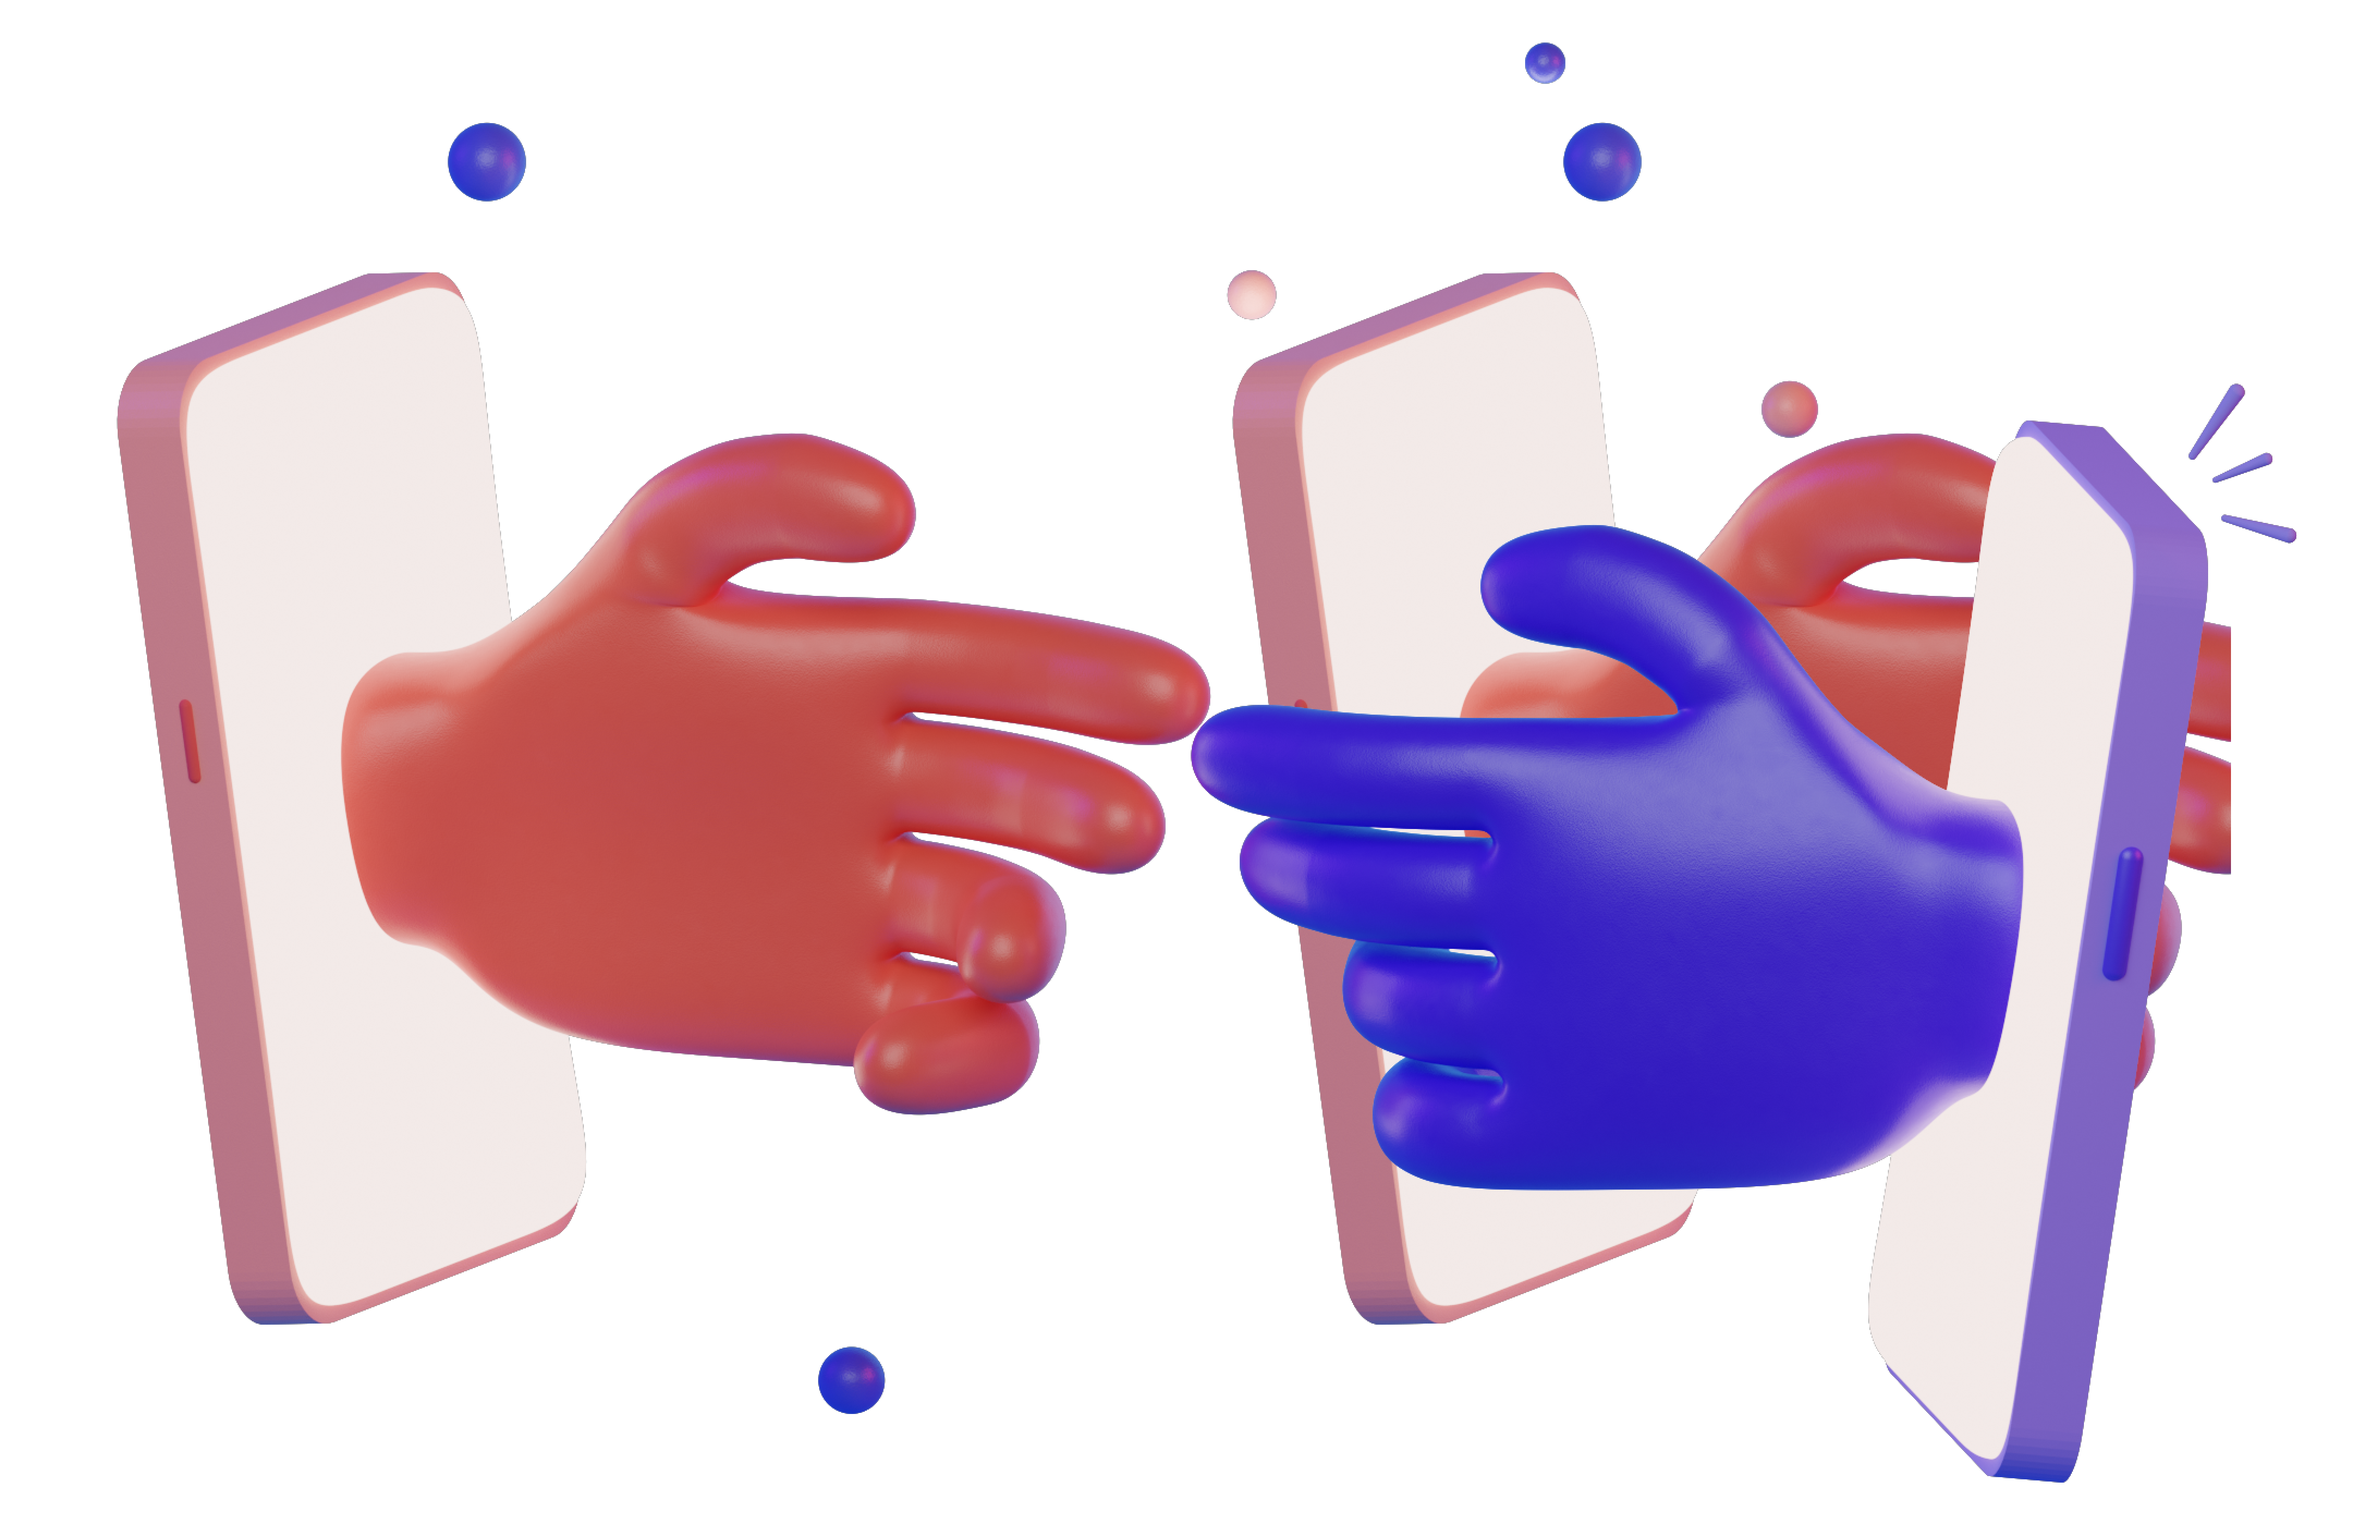
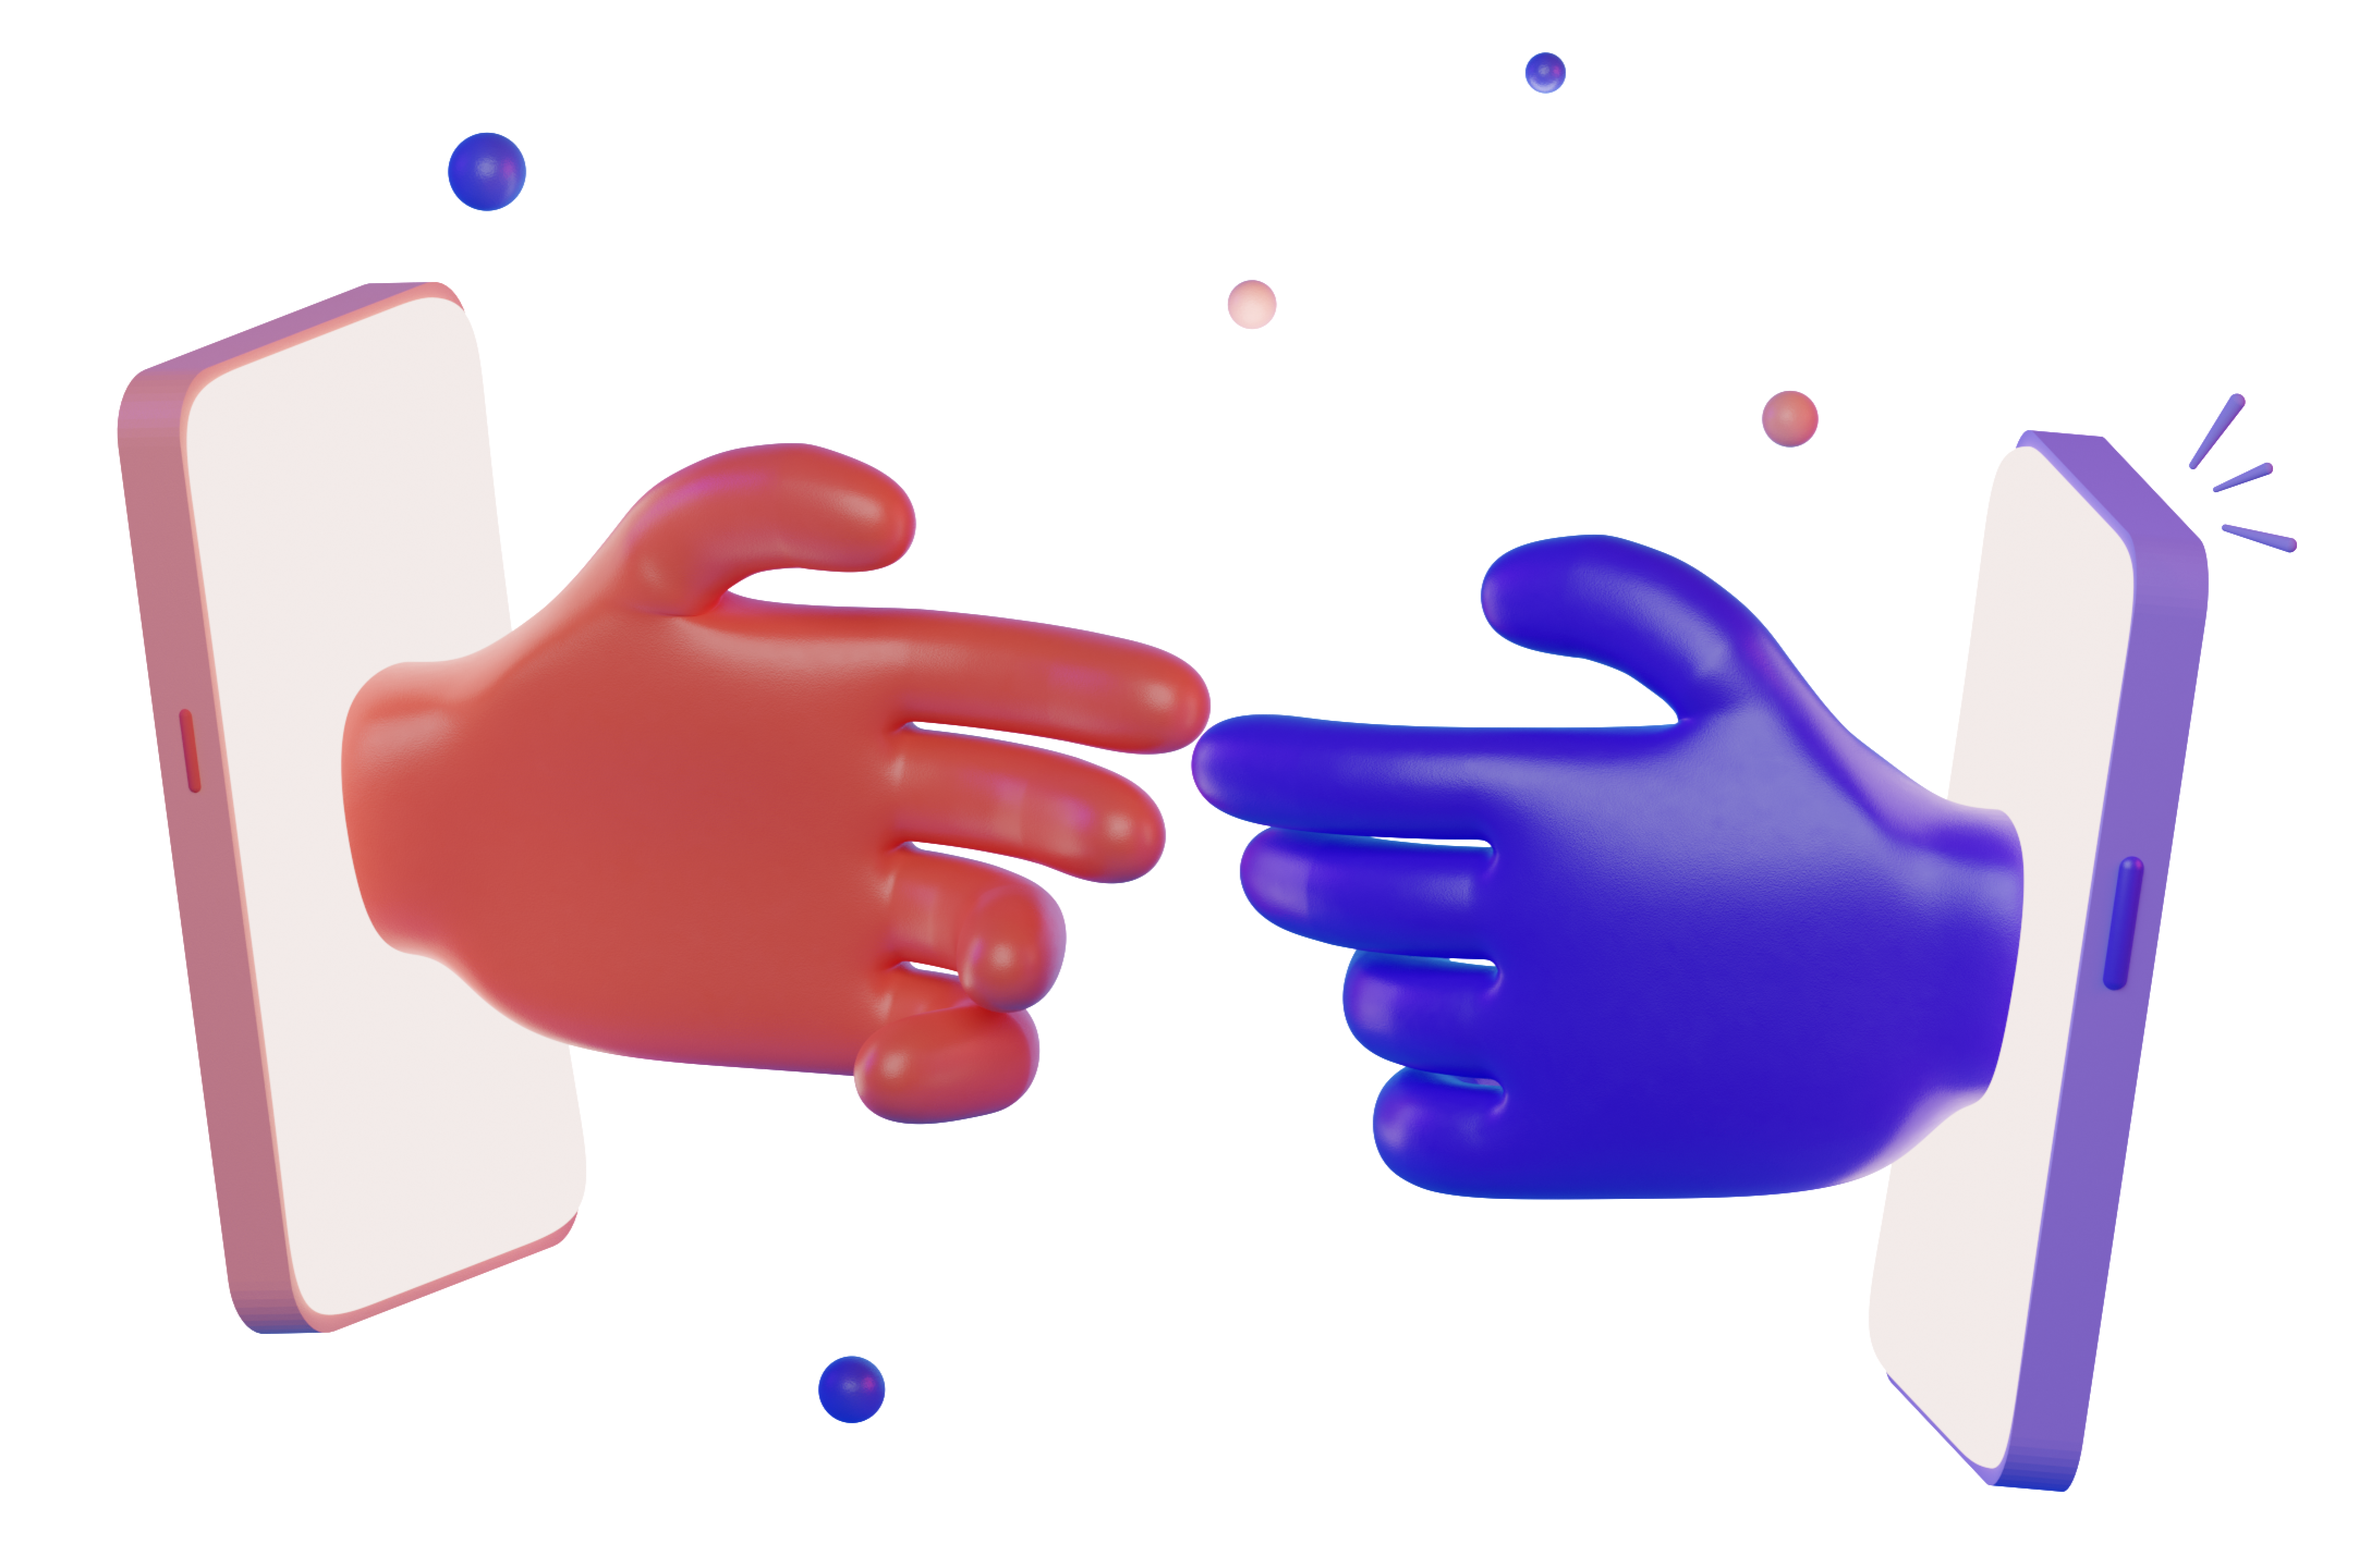
chore/crop img footer

diff --git a/e-learning/src/common/components/Footer/index.jsx b/e-learning/src/common/components/Footer/index.jsx
@@ -45,7 +45,7 @@ function Footer() {
                         </div>
                     </Col>
                     <Col xs={12} sm={6} md={3} className='text-center'>
-                        <img src={hand} alt='' style={{ width: "80%" }} />
+                        <img src={hand} alt='' />
                     </Col>
                 </Row>
             </Container>

diff --git a/e-learning/src/common/components/Footer/style.module.css b/e-learning/src/common/components/Footer/style.module.css
@@ -2,6 +2,7 @@
     padding: 3rem 0;
     position: relative;
     background-color: #000;
+    overflow: hidden;
 }
 .footer .footerLogo {
     width: 50%;
